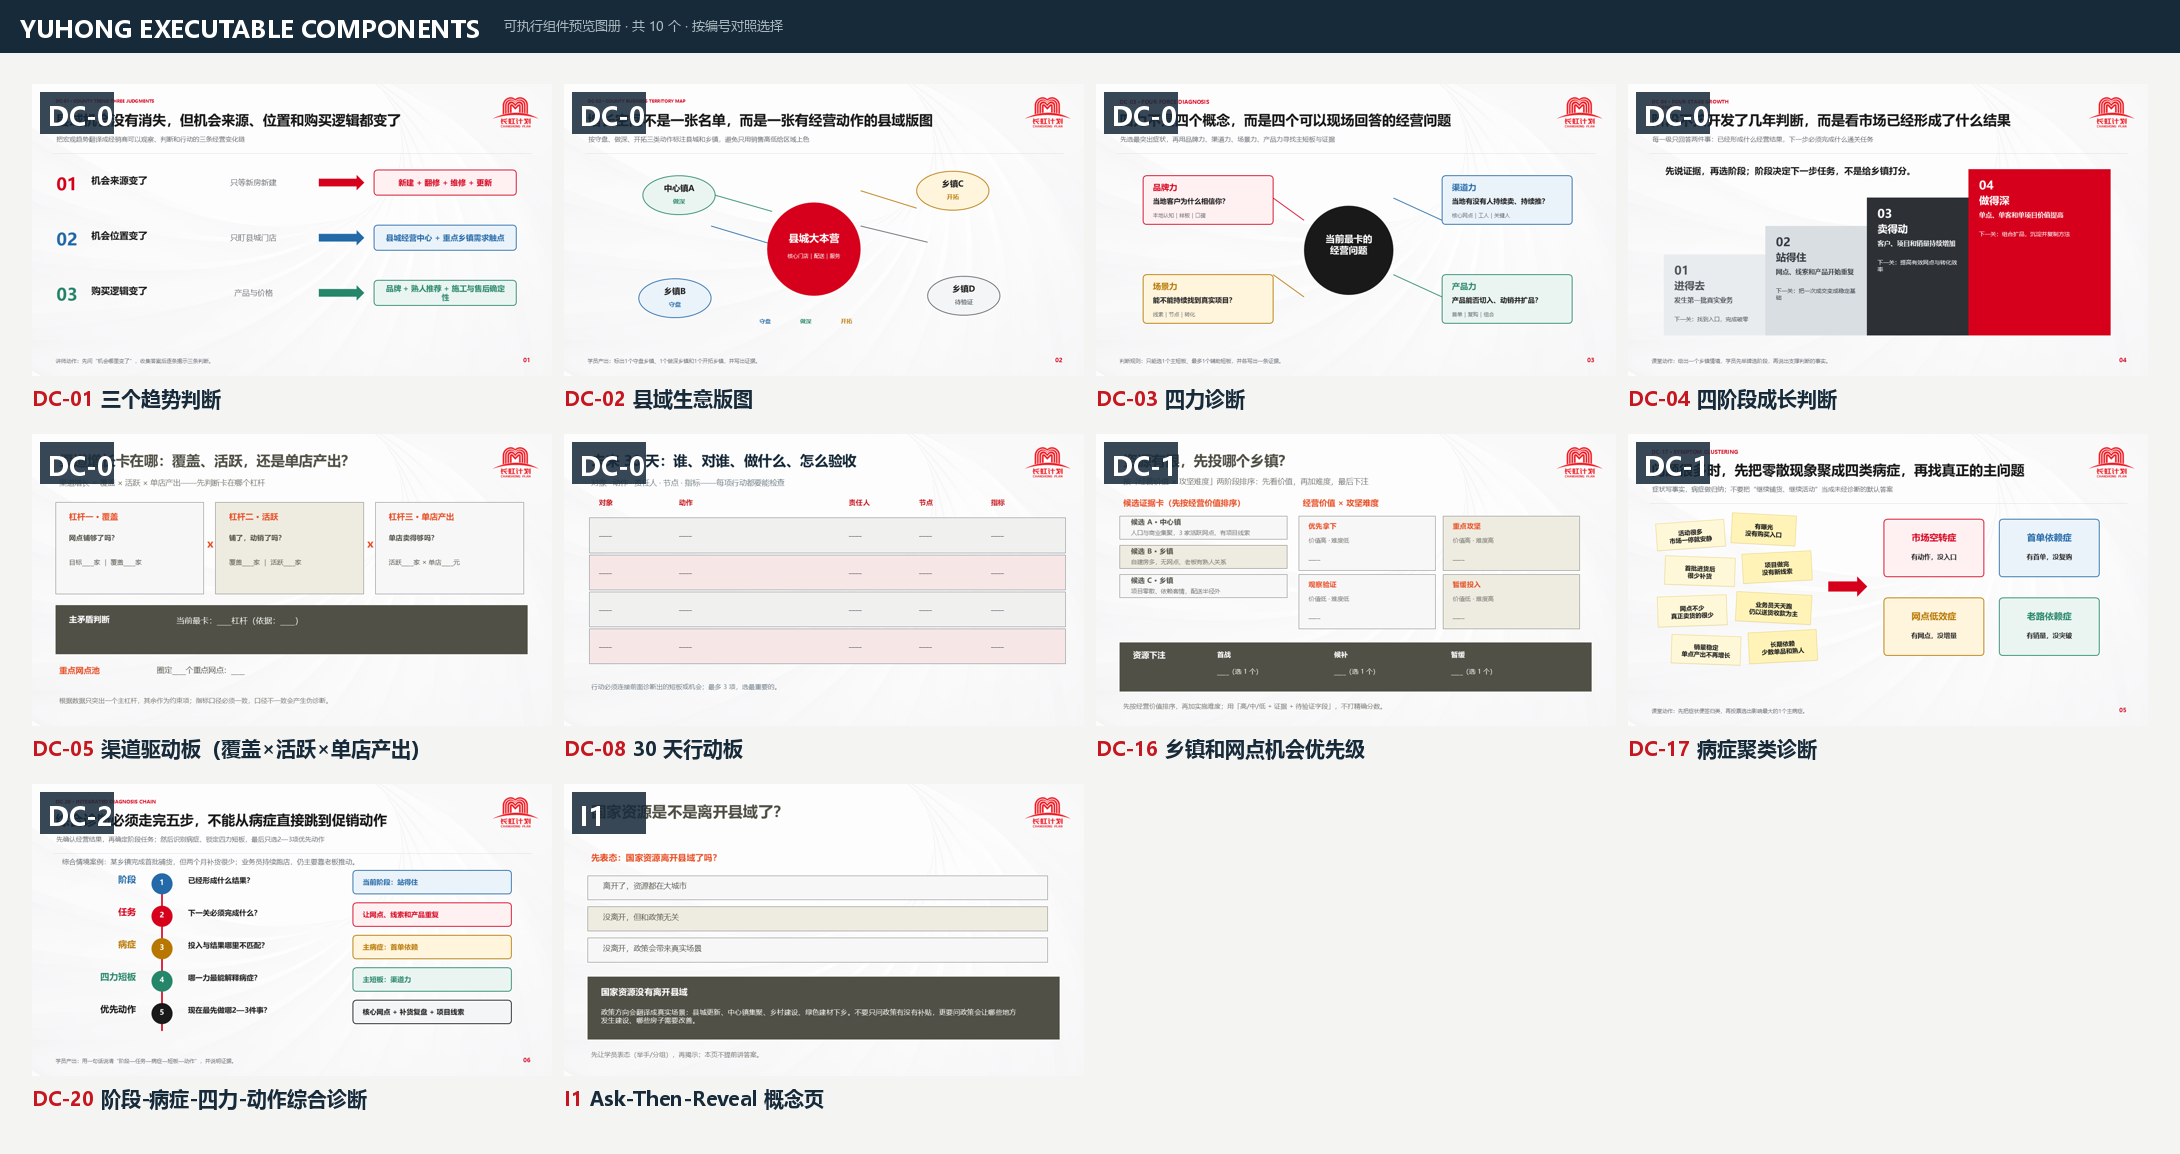
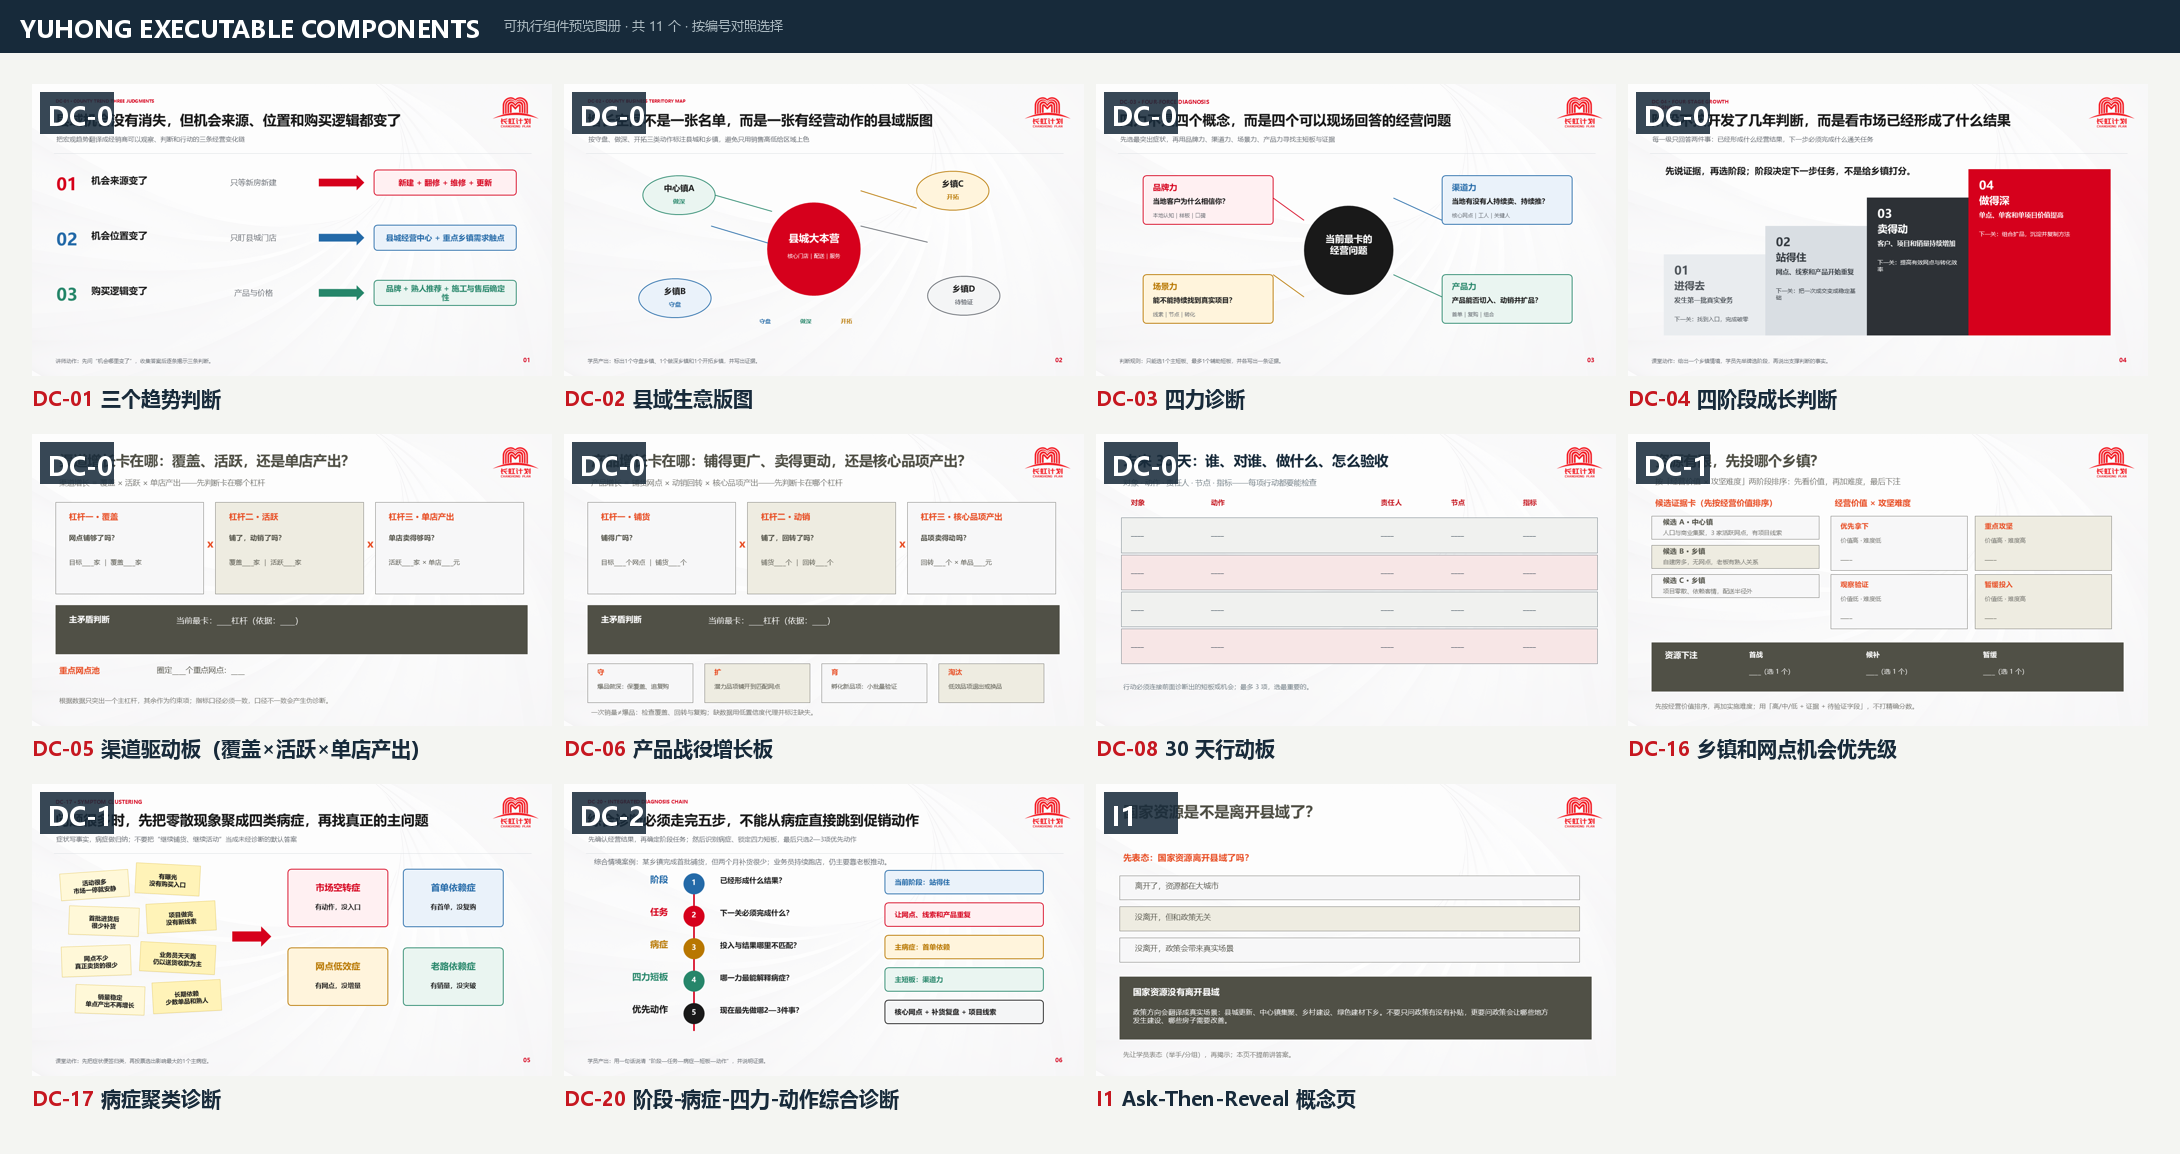
Add DC-06 product battle board (slide 11) via production line
Opportunity (find) loop now complete: DC-06 executable (slide 11, id 266#), three-lever driver board (铺货×动销×核心品项产出) + core contradiction + SKU strategy band (守/扩/育/淘汰), 33 named objects, token colors, same visual family as DC-05. Full pipeline: build-dc06.ps1 -> verify -> preview component-11.png -> registry -> generator (index/catalog SHA CECA243C) -> contact sheet -> promote -> slot contract + build contract synced.

diff --git a/domains/yuhong/references/build-execution-contract.md b/domains/yuhong/references/build-execution-contract.md
@@ -33,10 +33,10 @@ Use these values to detect wrong files or empty substitutes. If the repository i
 ### Executable Course Components
 
 - Path: `assets/components/yuhong-county-course-components-branded.pptx`.
[1 lines of base64/hex data omitted]
-- Expected structure: 10 slides and 10 speaker-note pages.
-- Role: editable content compositions for the ten registered county-course components (DC-01/02/03/04/05/08/16/17/20 + I1), already attached to the real Yuhong template master.
-- Note: SHA changes whenever a source page is added via the work-copy pipeline; registry is the single source of truth and deck SHA is recomputed by `build-component-registry.py --update-catalog` (run after promote). History: EAC0CD92 -> 9EC9E58E (DC-05) -> 1DD3E475 (I1) -> E84FD46C (DC-16).
[1 lines of base64/hex data omitted]
+- Expected structure: 11 slides and 11 speaker-note pages.
+- Role: editable content compositions for the eleven registered county-course components (DC-01/02/03/04/05/06/08/16/17/20 + I1), already attached to the real Yuhong template master.
+- Note: SHA changes whenever a source page is added via the work-copy pipeline; registry is the single source of truth and deck SHA is recomputed by `build-component-registry.py --update-catalog` (run after promote). History: EAC0CD92 -> 9EC9E58E (DC-05) -> 1DD3E475 (I1) -> E84FD46C (DC-16) -> CECA243C (DC-06).
 
 ## 3. Required Build Route
 

diff --git a/domains/yuhong/references/component-cards-draft.md b/domains/yuhong/references/component-cards-draft.md
@@ -49,7 +49,7 @@
 
 ### DC-06 产品战役增长板
 - Type: diagnosis ｜ Loops: 找机会 ｜ Modules: 产品战役
-- Status: card-only
+- Status: executable ｜ Source slide 11 (266#)
 - Question: 产品增长来自铺得更广、卖得更动，还是核心品项产出更高？
 - Input: SKU 清单、铺货网点、活跃/回转、SKU 销售、复购、目标品项
 - Output: 核心品项策略（守/扩/育/淘汰）和铺货/动销动作
